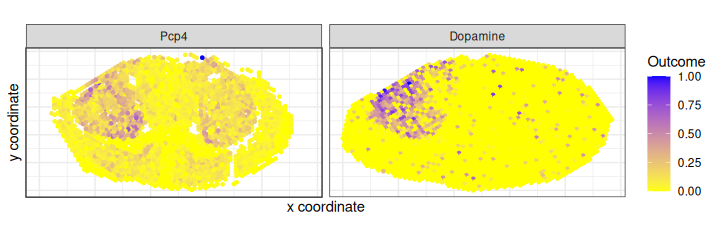
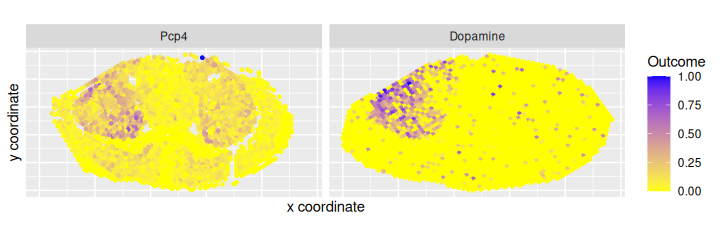
Removing the size guides

Changed region(s): [[0.0306, 0.175, 0.8861, 0.8458], [0.0306, 0.0875, 0.8861, 0.1167]]

diff --git a/README.md b/README.md
@@ -68,11 +68,11 @@ Prepare multithreading
 library(BiocParallel)
 nCores <- 2
 if (.Platform$OS.type == "unix") {
-    # On unix-based systems (linux and macOS), use MulticoreParam
-    register(MulticoreParam(nCores, stop.on.error = FALSE))
+  # On unix-based systems (linux and macOS), use MulticoreParam
+  register(MulticoreParam(nCores, stop.on.error = FALSE))
 } else {
-    # On windows, use SnowParam
-    register(SnowParam(workers = nCores, type = "SOCK", stop.on.error = FALSE))
+  # On windows, use SnowParam
+  register(SnowParam(workers = nCores, type = "SOCK", stop.on.error = FALSE))
 }
 ```
 
@@ -80,7 +80,7 @@ Now analyse this single sample using bivariate Moran’s I.
 
 ``` r
 moranRes <- sbivar(singleStx, singleMet, singleStxCoords, singleMetCoords,
-    method = "Moran's I"
+  method = "Moran's I"
 )
 ```
 
@@ -149,9 +149,9 @@ log-link is used in both cases.
 
 ``` r
 multiGAMRes <- sbivar(
-    X = Vicari$TranscriptOutcomes, Y = Vicari$MetaboliteOutcomes,
-    Cx = Vicari$TranscriptCoords, Ey = Vicari$MetaboliteCoords,
-    method = "GAM", families = list("X" = mgcv::nb(), "Y" = Gamma(lin = "log"))
+  X = Vicari$TranscriptOutcomes, Y = Vicari$MetaboliteOutcomes,
+  Cx = Vicari$TranscriptCoords, Ey = Vicari$MetaboliteCoords,
+  method = "GAMs", control = list("families" = list("X" = mgcv::nb(), "Y" = Gamma(lin = "log")))
 )
 ```
 
@@ -186,13 +186,13 @@ multiGAMLmmsRes <- extractResultsMulti(multiGAMLmms, design)
 topPairs(multiGAMLmmsRes, parameter = "Intercept")
 ```
 
-    ##   Modality_X Modality_Y   Estimate         SE       pVal      pAdj
-    ## 1      Sparc Tocopherol -0.1969455 0.05512814 0.01600122 0.4000305
-    ## 2       Gnas Tocopherol  0.2058657 0.08376740 0.05739854 0.5648194
-    ## 3       Gnas       GABA  0.2549455 0.10973641 0.06777833 0.5648194
-    ## 4       Gnas  Histidine  0.2027837 0.11076368 0.12664093 0.7915058
-    ## 5       Fth1       GABA  0.4125944 0.19797769 0.28481526 0.9377581
-    ## 6       Gnas   Dopamine -0.2579455 0.15311234 0.34103084 0.9377581
+    ##   Modality_X Modality_Y   Estimate         SE        pVal      pAdj
+    ## 1       Fth1       GABA  0.4125944 0.10215786 0.009934558 0.1616965
+    ## 2      Sparc Tocopherol -0.1969455 0.05512814 0.016001220 0.1616965
+    ## 3    mt.Atp6       GABA -0.4230801 0.12470185 0.019403575 0.1616965
+    ## 4      Sparc    Taurine -0.3736672 0.12022088 0.026605784 0.1662862
+    ## 5       Gnas   Dopamine -0.2579455 0.10237119 0.053193609 0.2207701
+    ## 6       Gnas Tocopherol  0.2058657 0.08376740 0.057398540 0.2207701
 
 No features are significantly associated after multiplicity correction.
 For illustration, we plot the feature pair with the smallest p-values
@@ -200,8 +200,8 @@ nevertheless:
 
 ``` r
 plotTopPair(multiGAMLmmsRes,
-    Xl = Vicari$TranscriptOutcomes, Yl = Vicari$MetaboliteOutcomes,
-    Cxl = Vicari$TranscriptCoords, Eyl = Vicari$MetaboliteCoords, size = 0.3
+  Xl = Vicari$TranscriptOutcomes, Yl = Vicari$MetaboliteOutcomes,
+  Cxl = Vicari$TranscriptCoords, Eyl = Vicari$MetaboliteCoords, size = 0.3
 )
 ```
 
